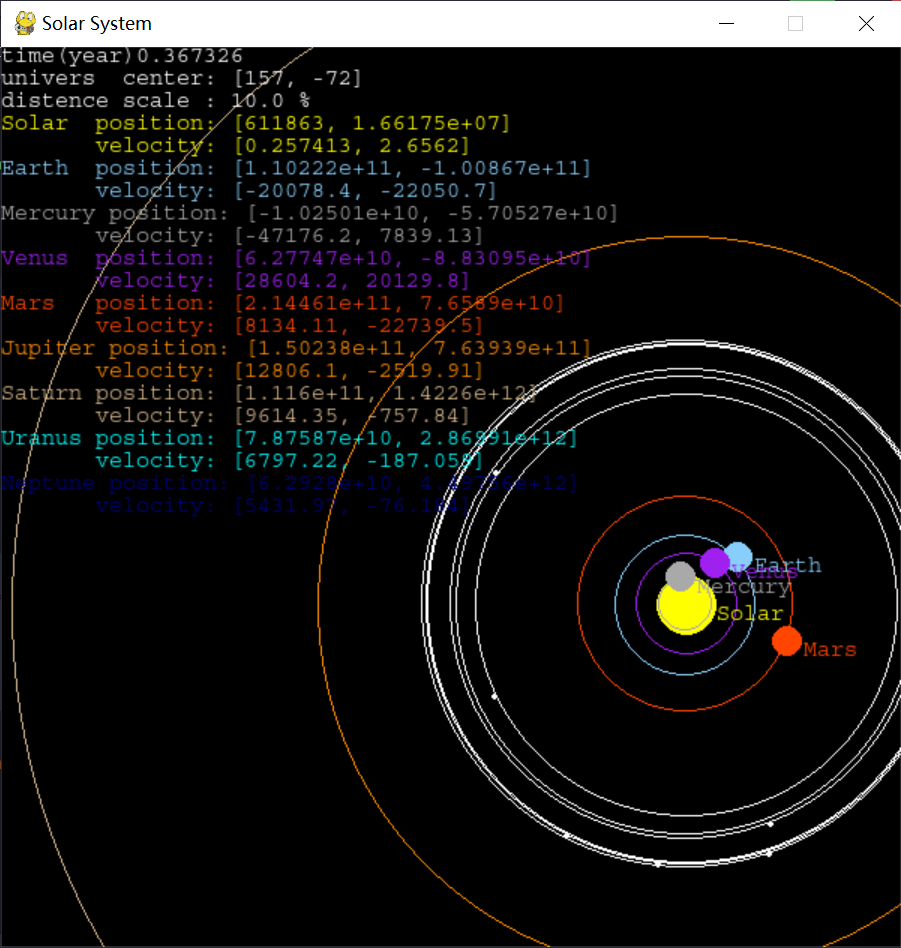
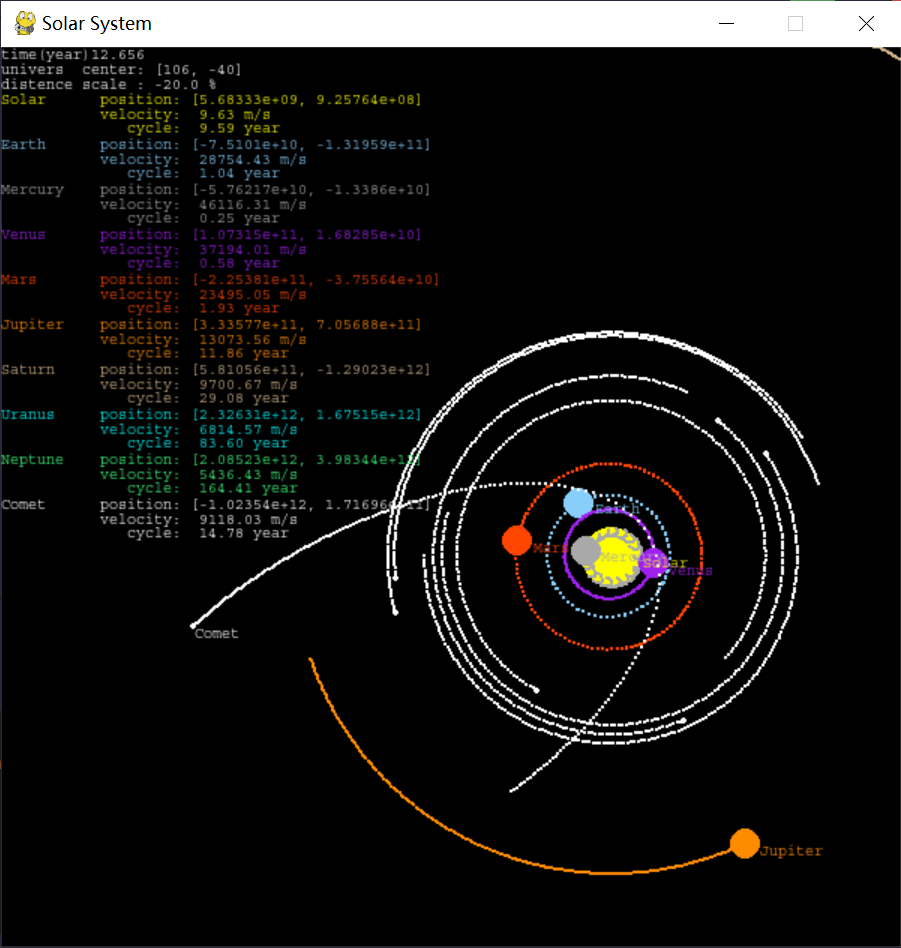
Big change

diff --git a/universe.py b/universe.py
@@ -33,10 +33,10 @@ class Universe:
 
         self.Solar.mass = self.law.Mass_Solar
         self.Earth.mass = self.law.Mass_Earth
-        self.Moon.mass = self.law.Mass_Moon*10
+        self.Moon.mass = self.law.Mass_Moon * 10
 
         self.Earth.pos.update(self.law.R_e2s, 0)
-        self.Moon.pos.update(self.law.R_e2s+self.law.R_m2e*10, 0)
+        self.Moon.pos.update(self.law.R_e2s + self.law.R_m2e * 10, 0)
 
         vgms, vgsm = self.law.circle_velocity_of_2_bodies(self.Moon, self.Solar)
         vges, vgse = self.law.circle_velocity_of_2_bodies(self.Earth, self.Solar)
@@ -140,9 +140,9 @@ class Universe:
             self.add_body(self.asteroid)
             angle += 360 / asteroid_number * rdm0_1()
 
-        self.Comet = Satellite(self, f'Comet', mass=1,radius=1,
-                                     position=self.Jupiter.pos.rotate(90),
-                                     velcity=vctr(0, 0))
+        self.Comet = Satellite(self, f'Comet', mass=1, radius=1,
+                               position=self.Jupiter.pos.rotate(90),
+                               velcity=vctr(0, 0))
         V = vctr(self.law.circle_velocity_of_2_bodies(self.Comet, self.Solar)[0]).rotate(60)
         self.Comet.velocity.update(V)
         self.add_body(self.Comet)
@@ -152,8 +152,9 @@ class Universe:
         self.Moon.velocity.update(self.Earth.velocity + self.law.circle_velocity_of_2_bodies(self.Moon, self.Earth)[0])
         # self.add_body(self.Moon)
 
-        self.law.time_scale = 3600*24*365
+        self.law.time_scale = 3600 * 24 * 365
         self.time_unit = 'year'
+        self.font_size = 10
 
     def earth_system(self):
 
@@ -207,12 +208,11 @@ class Universe:
 
     def draw(self):
         self.screen.fill('black')
-        [body.draw(is_draw_track=True,track_num=200) for body in self.body_list]
+        [body.draw(is_draw_track=True, track_num=200) for body in self.body_list]
         self.draw_time(self.time_unit)
         self.draw_center()
         self.draw_relative_scaling()
-        # self.draw_infos()
-
+        self.draw_infos()
 
         self.next_info_pos.update(vctr(0, 0))
 
@@ -241,7 +241,7 @@ class Universe:
             text += str(f'{self.time / (1000 * 60 * 60 * 24 * 365):.3f}')
         else:
             text = '(second)'
-            text += str(f'{self.time / (1000 ):.3f}')
+            text += str(f'{self.time / (1000):.3f}')
         text = 'time' + text
         self.draw_text(text, self.next_info_pos)
 
